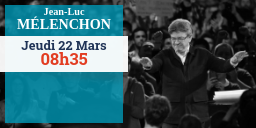
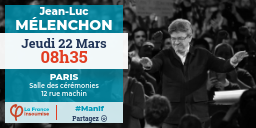
augmentation marge haute

Changed region(s): [[0.0, 0.0312, 0.5, 0.75], [0.0, 0.7812, 0.5, 0.9688]]

diff --git a/genvisu/modeles/fi/evenement2/index.html b/genvisu/modeles/fi/evenement2/index.html
@@ -121,7 +121,7 @@
       top:28vw;
       left:2.5vw;
       width:45vw;
-      height:19vw;
+      height:11.5vw;
     }
 
     .textblock {
@@ -193,14 +193,14 @@
         <div id="bloc1"></div>
         <div class="zone" id="zone1" contenteditable="">
           <div align="center">
-            <span fontweight="9" fontsize="12" color="2" lineheight="6">Jean-Luc</span>
+            <span fontweight="8" fontsize="12" color="2" lineheight="6" fontfamily="1">Jean-Luc</span>
           </div>
           <div align="center">
-            <span texttransform="uppercase" fontsize="15" fontweight="9" lineheight="5" color="2">mélenchon</span>
+            <span texttransform="uppercase" fontsize="15" fontweight="8" lineheight="5" color="2" fontfamily="1">mélenchon</span>
           </div>
         </div>
         <div id="ombre"></div>
-        <div class="zone" id="zone3" contenteditable=""><div></div><div align="center"><span color="2" fontsize="11" fontweight="9" lineheight="6">PARIS</span></div><div align="center"><span color="2" fontsize="8" fontweight="5">Salle des cérémonies</span></div><div align="center"><span color="2" fontsize="8" fontweight="5">12 rue machin</span></div></div>
+        <div class="zone" id="zone3" contenteditable=""><div></div><div align="center"><span color="2" fontsize="11" fontweight="8" lineheight="6" fontfamily="1">PARIS</span></div><div align="center"><span color="2" fontsize="8" fontweight="6" fontfamily="1">Salle des cérémonies</span></div><div align="center"><span color="2" fontsize="8" fontweight="6" fontfamily="1">12 rue machin</span></div></div>
 
 
         <div id="bloc2"></div>
@@ -209,7 +209,7 @@
         <img id="logofi" src="/img/FI_logo.svg" />
         <div class="separator"></div>
         <div class="RS">
-        <div class="zone" id="zone4" contenteditable=""><div></div><div align="center"><span fontweight="9" fontsize="10" color="5">#Manif</span></div></div>
+        <div class="zone" id="zone4" contenteditable=""><div></div><div align="center"><span fontweight="8" fontsize="10" color="5" fontfamily="1">#Manif</span></div></div>
         <div id="partagez">Partagez <i class="far fa-arrow-circle-down"></i></div>
     </div>
 

diff --git a/genvisu/modeles/fi/affiche/css/charte.css b/genvisu/modeles/fi/affiche/css/charte.css
@@ -1,3 +1,5 @@
+@import url("https://fonts.googleapis.com/css?family=Roboto:100,200,300,400,500,600,700,800,900|Courgette:100,200,300,400,500,600,700,800,900|Montserrat:100,200,300,400,500,600,700,800,900|Roboto+Slab:100,200,300,400,500,600,700,800,900");
+
 *[fontfamily="1"] {
   font-family: "Montserrat", sans-serif;
 }
@@ -6,6 +8,9 @@
 }
 *[fontfamily="3"] {
   font-family: "Courgette", serif;
+}
+*[fontfamily="4"] {
+  font-family: "Roboto", serif;
 }
 
 

diff --git a/genvisu/modeles/fi/affiche2/css/charte.css b/genvisu/modeles/fi/affiche2/css/charte.css
@@ -1,3 +1,5 @@
+@import url("https://fonts.googleapis.com/css?family=Roboto:100,200,300,400,500,600,700,800,900|Courgette:100,200,300,400,500,600,700,800,900|Montserrat:100,200,300,400,500,600,700,800,900|Roboto+Slab:100,200,300,400,500,600,700,800,900");
+
 *[fontfamily="1"] {
   font-family: "Montserrat", sans-serif;
 }
@@ -6,6 +8,9 @@
 }
 *[fontfamily="3"] {
   font-family: "Courgette", serif;
+}
+*[fontfamily="4"] {
+  font-family: "Roboto", serif;
 }
 
 

diff --git a/genvisu/modeles/fi/evenement/css/charte.css b/genvisu/modeles/fi/evenement/css/charte.css
@@ -1,3 +1,5 @@
+@import url("https://fonts.googleapis.com/css?family=Roboto:100,200,300,400,500,600,700,800,900|Courgette:100,200,300,400,500,600,700,800,900|Montserrat:100,200,300,400,500,600,700,800,900|Roboto+Slab:100,200,300,400,500,600,700,800,900");
+
 *[fontfamily="1"] {
   font-family: "Montserrat", sans-serif;
 }
@@ -6,6 +8,9 @@
 }
 *[fontfamily="3"] {
   font-family: "Courgette", serif;
+}
+*[fontfamily="4"] {
+  font-family: "Roboto", serif;
 }
 
 

diff --git a/genvisu/modeles/fi/evenement2/css/charte.css b/genvisu/modeles/fi/evenement2/css/charte.css
@@ -1,3 +1,5 @@
+@import url("https://fonts.googleapis.com/css?family=Roboto:100,200,300,400,500,600,700,800,900|Courgette:100,200,300,400,500,600,700,800,900|Montserrat:100,200,300,400,500,600,700,800,900|Roboto+Slab:100,200,300,400,500,600,700,800,900");
+
 *[fontfamily="1"] {
   font-family: "Montserrat", sans-serif;
 }
@@ -6,6 +8,9 @@
 }
 *[fontfamily="3"] {
   font-family: "Courgette", serif;
+}
+*[fontfamily="4"] {
+  font-family: "Roboto", serif;
 }
 
 
